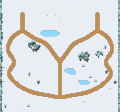
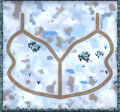
towercraft: work in progress on the repainted maps
Claude-Session: https://claude.ai/code/session_01QEz8eWqMpSmP6F3oE6hcGQ

diff --git a/tools/towercraftGround.ts b/tools/towercraftGround.ts
@@ -465,11 +465,11 @@ const LOOKS: Record<string, Look> = {
     },
   },
   desert: {
-    base: m([216, 184, 122], 'desert_sand', 0.06),
+    base: m([206, 170, 108], 'desert_sand', 0.06),
     patches: [
-      { mat: m([236, 208, 150], 'desert_sand', 0.05), scale: 460, at: 0.55, soft: 0.1, seed: 3 },
-      { mat: m([178, 130, 84], 'dry_mud', 0.07), scale: 340, at: 0.62, soft: 0.05, seed: 5, rim: 3 },
-      { mat: m([164, 150, 80], 'dry_grass', 0.06), scale: 300, at: 0.66, soft: 0.06, seed: 9, rim: 3 },
+      { mat: m([224, 192, 130], 'desert_sand', 0.05), scale: 460, at: 0.55, soft: 0.12, seed: 3 },
+      { mat: m([184, 138, 90], 'dry_mud', 0.07), scale: 340, at: 0.66, soft: 0.07, seed: 5, rim: 3 },
+      { mat: m([176, 156, 90], 'dry_grass', 0.06), scale: 300, at: 0.72, soft: 0.07, seed: 9, rim: 3 },
     ],
     road: {
       rgb: [158, 108, 70],
@@ -596,7 +596,7 @@ const LOOKS: Record<string, Look> = {
         stamp(c, `bones_${Math.floor(c.rnd() * 4)}`, x, y, 1.1, c.rnd() < 0.5, 0.9, 0.2),
       );
       // Lava cracks: glowing seams that branch and thin out, with a faint glow round them (ground only: nothing blocks).
-      scatter(c, 26, offRoad(c, 3.2), (x, y) => {
+      scatter(c, 7, offRoad(c, 3.2), (x, y) => {
         let [px, py] = [x, y];
         let ang = c.rnd() * 6.28;
         const segs = 8 + Math.floor(c.rnd() * 8);
